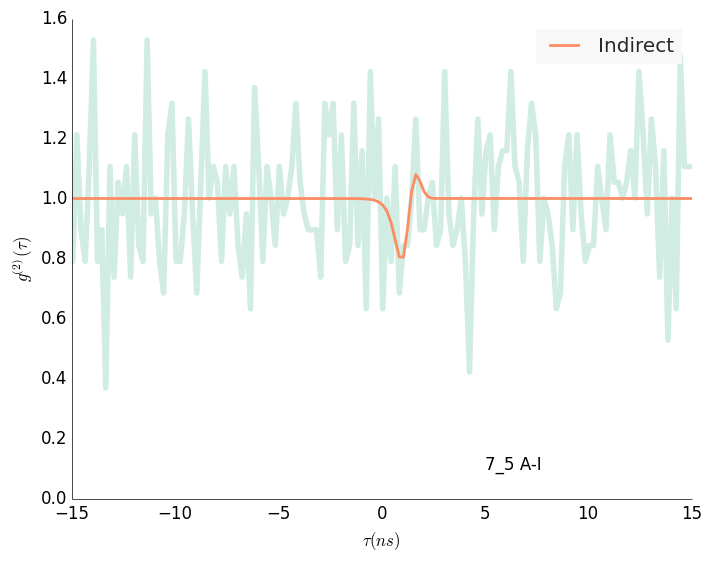
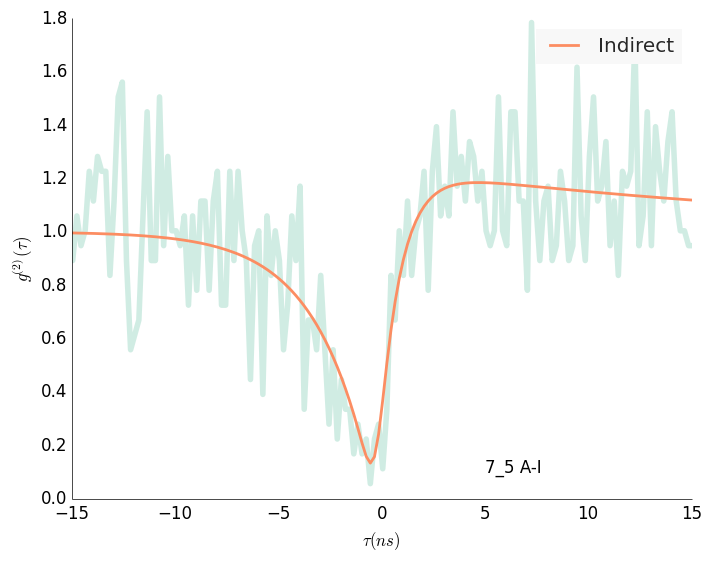
fixed ordering of state in markov expansion

diff --git a/names.py b/names.py
@@ -5,7 +5,7 @@ types = ['indirect', 'indirect', 'direct', 'direct',
          'indirect', 'direct', 'direct', 'indirect',
          'antidirect', 'antidirect', 'antidirect', 'indirect']
 
-zeropoints = [171.6, 171.0, 171.5, 170.5, 171.1, 171.2, 171.2, 171.2, 171.2, 171.2, 171.2, 171.2]
+zeropoints = [171.6, 171.0, 171.5, 170.5, 171.1, 171.2, 171.2, 171.2, 171.2, 171.2, 171.2, 800-171.2]
 
 
 peaks = []

diff --git a/output/fit.md b/output/fit.md
@@ -167,14 +167,14 @@
 # 7_5 A-I
 ![](all/corrs7_5.png)
 ## Direct
-	c1: -0.000 +- 0.000
-	l1: -0.468 +- 0.740
-	l2: 31.930 +- 101.566
+	c1: -1.486 +- 0.718
+	l1: 2.387 +- 1.625
+	l2: 0.371 +- 0.067
 ## Indirect
-	c1: 35.002 +- 150398.952
-	l1: 26.149 +- 9164.482
-	l3: 31.130 +- 12172.069
-	l2: 3.307 +- 9.787
+	c1: 0.246 +- 0.113
+	l1: 0.047 +- 0.041
+	l3: 0.990 +- 0.387
+	l2: 0.376 +- 0.058
 ## Antidirect
-	l1: 31.728 +- 88.694
-	l2: 8.089 +- 1296.081
+	l1: 2.236 +- 0.058
+	l2: 0.352 +- 1.629

diff --git a/output/fit_specific.md b/output/fit_specific.md
@@ -80,7 +80,7 @@
 # 7_5 A-I
 ![](specific/specific_corrs7_5.png)
 ## Indirect
-	c1: 35.002 +- 150398.952
-	l1: 26.149 +- 9164.482
-	l3: 31.130 +- 12172.069
-	l2: 3.307 +- 9.787
+	c1: 0.246 +- 0.113
+	l1: 0.047 +- 0.041
+	l3: 0.990 +- 0.387
+	l2: 0.376 +- 0.058
